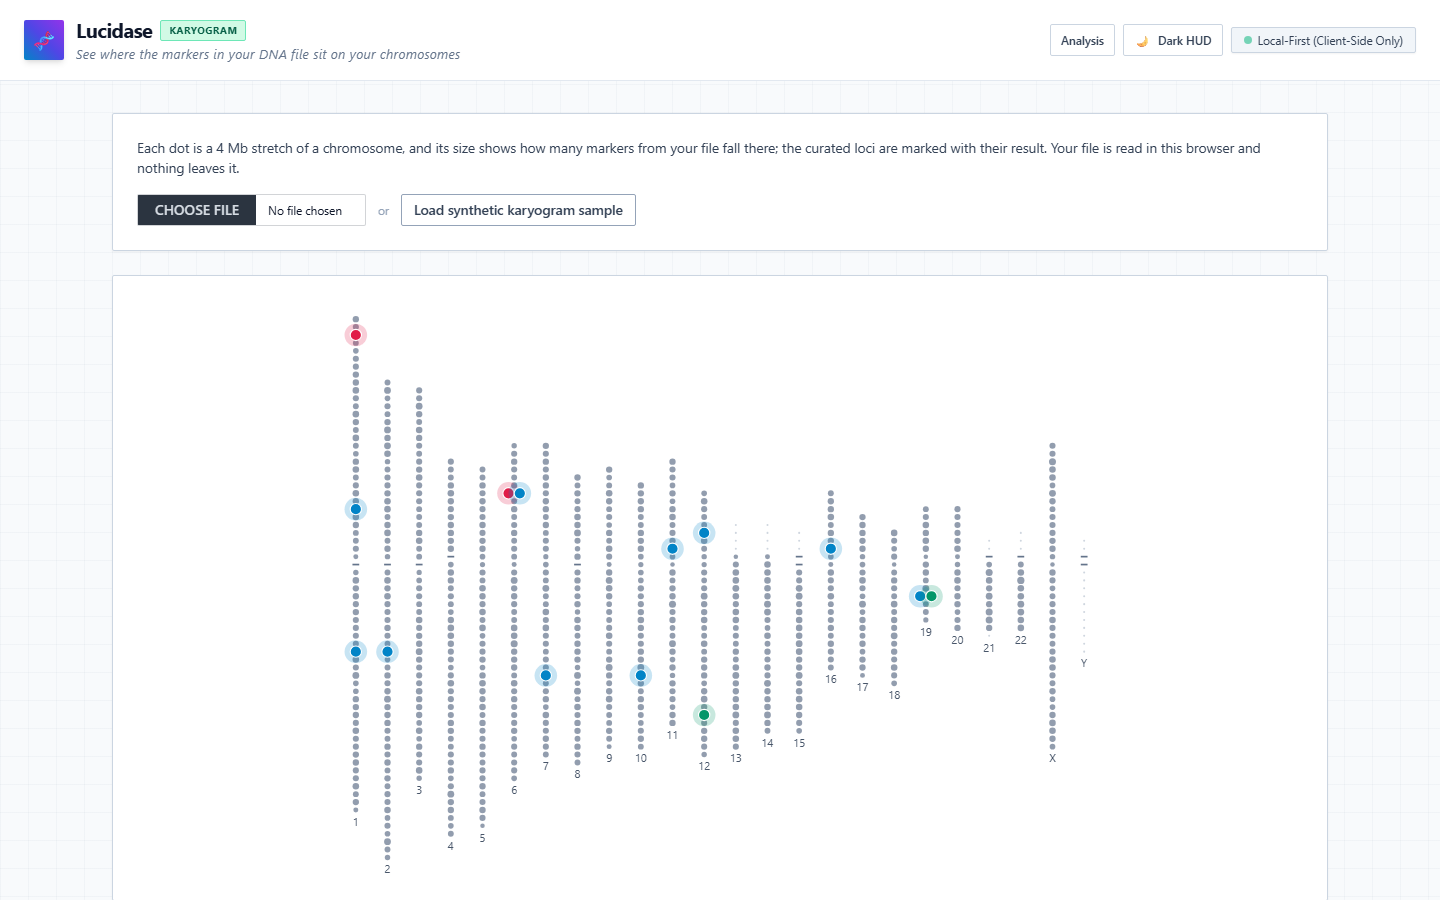
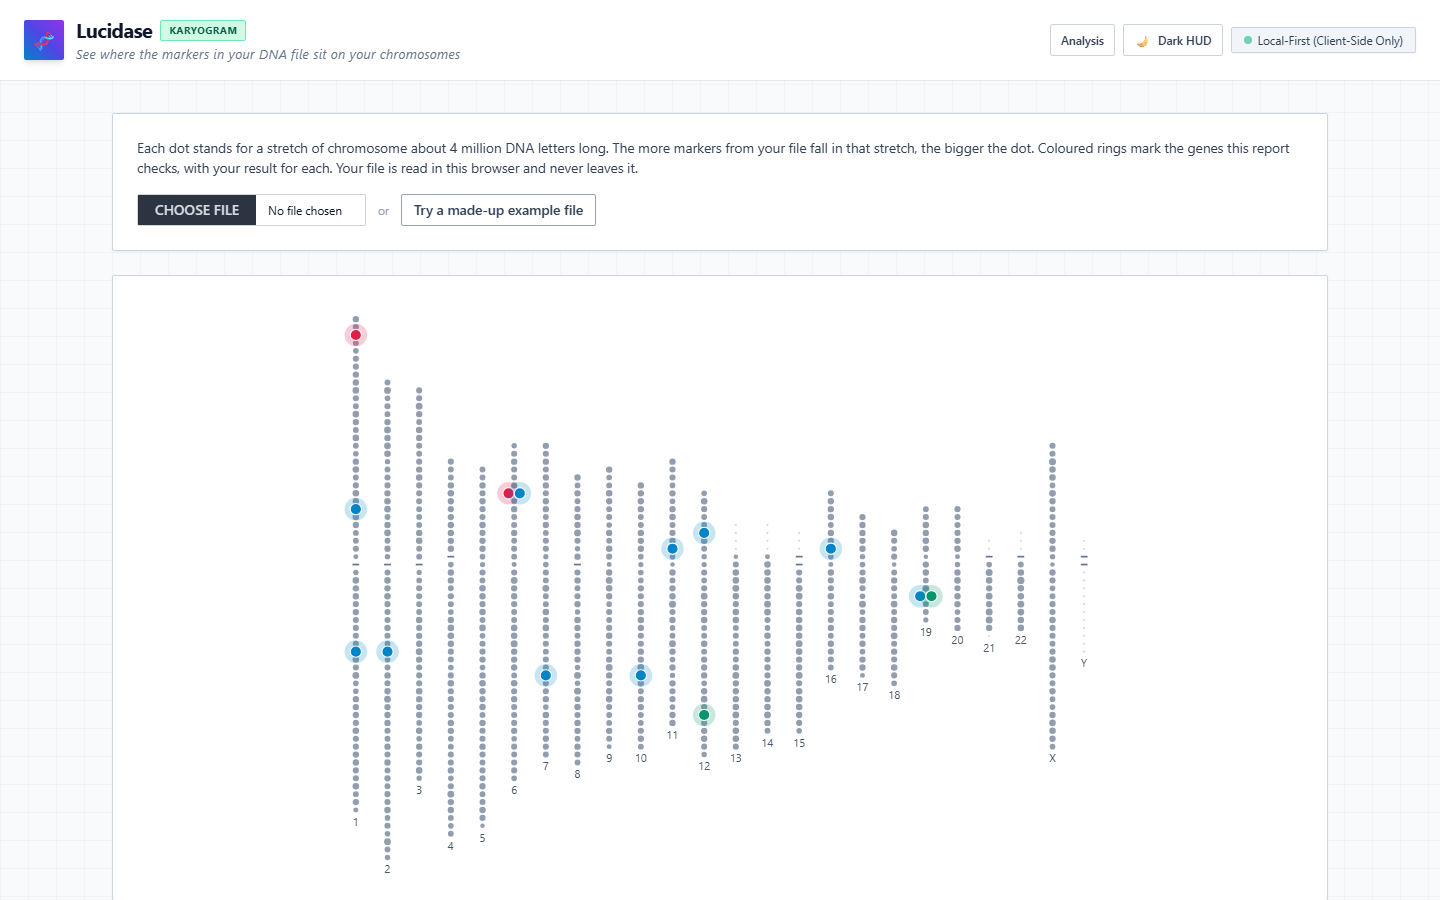
fix(karyogram): plain-language labels for the legend, totals and sample button
The karyogram page mixed plain language with jargon aimed at
geneticists: "curated loci", "4 Mb", "Density", "Rows", "Out of
bounds" and a "synthetic karyogram sample" button. People with a
consumer DNA file could not tell what the dots, the key or the totals
meant.

The intro now says a dot is a stretch of about 4 million DNA letters
and that coloured rings mark the genes this report checks. The sample
button, its loading text and its load error call it an example file.
The key and the loci table are headed "the genes this report checks".
The totals rows read "Lines read from your file", "Mitochondrial DNA
(not drawn)", "On other DNA sequences (not drawn)", "Past the end of
a chromosome (not drawn)" and "Markers drawn on the map" with Yes or
No. The unknown-build notice uses the same gene wording. The README,
the design handoff and the two karyogram screenshots follow.

The e2e karyogram tests now pin the density values, the totals labels,
the button text, and both provenance lines: with no file it reads
"Chromosome shapes: GRCh38." without "matching" or "doesn't say", and
with a known build it reads "matching your file".

Changed region(s): [[0.0938, 0.1556, 0.875, 0.2489]]

diff --git a/web/karyogram.html b/web/karyogram.html
@@ -58,14 +58,15 @@
 
     <section class="glass-panel p-6 bg-white dark:bg-slate-900/60 border border-slate-300 dark:border-slate-700 space-y-4">
       <p class="text-sm text-slate-700 dark:text-slate-300 font-serif">
-        Each dot is a 4 Mb stretch of a chromosome, and its size shows how many markers from your file fall there; the
-        curated loci are marked with their result. Your file is read in this browser and nothing leaves it.
+        Each dot stands for a stretch of chromosome about 4 million DNA letters long. The more markers from your file
+        fall in that stretch, the bigger the dot. Coloured rings mark the genes this report checks, with your result
+        for each. Your file is read in this browser and never leaves it.
       </p>
       <div class="flex flex-wrap items-center gap-3">
         <input type="file" id="karyogram-file-input" class="file-input file-input-sm file-input-bordered rounded-sm text-xs" accept=".txt,.csv,.vcf,.tsv,.gz">
         <span class="text-xs text-slate-400 font-mono">or</span>
         <button type="button" id="btn-load-karyogram-sample" class="btn btn-sm btn-outline border-slate-400 dark:border-slate-700 hover:border-sky-500 text-slate-700 dark:text-slate-300 hover:text-sky-600 dark:hover:text-sky-300 rounded-sm">
-          Load synthetic karyogram sample
+          Try a made-up example file
         </button>
       </div>
     </section>
@@ -98,30 +99,30 @@
 
     <div class="grid grid-cols-1 lg:grid-cols-2 gap-6">
       <section class="glass-panel p-6 bg-white dark:bg-slate-900/60 border border-slate-300 dark:border-slate-700 space-y-3">
-        <h2 class="text-xs font-bold text-slate-500 dark:text-slate-400 uppercase tracking-wider font-mono">Legend: curated loci by result</h2>
+        <h2 class="text-xs font-bold text-slate-500 dark:text-slate-400 uppercase tracking-wider font-mono">Key: the genes this report checks, by your result</h2>
         <ul id="karyogram-legend" class="space-y-1.5 text-xs font-mono"></ul>
       </section>
 
       <section id="karyogram-totals" class="hidden glass-panel p-6 bg-white dark:bg-slate-900/60 border border-slate-300 dark:border-slate-700 space-y-3">
         <h2 class="text-xs font-bold text-slate-500 dark:text-slate-400 uppercase tracking-wider font-mono">Markers in your file</h2>
         <dl class="grid grid-cols-2 gap-x-4 gap-y-1.5 text-xs font-mono">
-          <dt class="text-slate-500 dark:text-slate-400">Rows</dt><dd data-total="rows" class="font-bold text-right"></dd>
+          <dt class="text-slate-500 dark:text-slate-400">Lines read from your file</dt><dd data-total="rows" class="font-bold text-right"></dd>
           <dt class="text-slate-500 dark:text-slate-400">Placed on a chromosome</dt><dd data-total="placed" class="font-bold text-right"></dd>
-          <dt class="text-slate-500 dark:text-slate-400">Mitochondrial (MT)</dt><dd data-total="mt" class="font-bold text-right"></dd>
-          <dt class="text-slate-500 dark:text-slate-400">Unplaced, by name</dt><dd data-total="unplaced" class="font-bold text-right"></dd>
-          <dt class="text-slate-500 dark:text-slate-400">Out of bounds</dt><dd data-total="outOfBounds" class="font-bold text-right"></dd>
+          <dt class="text-slate-500 dark:text-slate-400">Mitochondrial DNA (not drawn)</dt><dd data-total="mt" class="font-bold text-right"></dd>
+          <dt class="text-slate-500 dark:text-slate-400">On other DNA sequences (not drawn)</dt><dd data-total="unplaced" class="font-bold text-right"></dd>
+          <dt class="text-slate-500 dark:text-slate-400">Past the end of a chromosome (not drawn)</dt><dd data-total="outOfBounds" class="font-bold text-right"></dd>
           <dt class="text-slate-500 dark:text-slate-400">Not placed (genome version unknown)</dt><dd data-total="notPlacedBuildUnknown" class="font-bold text-right"></dd>
-          <dt class="text-slate-500 dark:text-slate-400">Density</dt><dd data-total="density" class="font-bold text-right"></dd>
+          <dt class="text-slate-500 dark:text-slate-400">Markers drawn on the map</dt><dd data-total="density" class="font-bold text-right"></dd>
         </dl>
         <p id="karyogram-density-notice" class="hidden p-3 rounded-sm bg-amber-50/90 dark:bg-amber-950/40 border-l-4 border-amber-500 border border-amber-200 dark:border-amber-900/60 text-xs text-slate-800 dark:text-slate-200">
           Your file doesn't say which genome version it uses, so its markers can't be placed on the chromosomes. The
-          highlighted genes still show your results.
+          genes this report checks still show your results.
         </p>
       </section>
     </div>
 
     <section class="glass-panel p-6 bg-white dark:bg-slate-900/60 border border-slate-300 dark:border-slate-700 space-y-3">
-      <h2 class="text-xs font-bold text-slate-500 dark:text-slate-400 uppercase tracking-wider font-mono">Curated loci</h2>
+      <h2 class="text-xs font-bold text-slate-500 dark:text-slate-400 uppercase tracking-wider font-mono">Genes this report checks</h2>
       <div class="overflow-x-auto">
         <table class="table table-sm w-full text-xs">
           <thead>

diff --git a/web/src/karyogram-page.js b/web/src/karyogram-page.js
@@ -87,7 +87,7 @@ function renderTotals(layout) {
     unplaced: unplaced.length === 0 ? "None" : unplaced.map(([name, n]) => `${name}: ${fmt(n)}`).join(", "),
     outOfBounds: fmt(t.outOfBounds),
     notPlacedBuildUnknown: fmt(t.notPlacedBuildUnknown),
-    density: sample.density === "available" ? "Available" : "Unavailable",
+    density: sample.density === "available" ? "Yes" : "No",
   };
   for (const [name, text] of Object.entries(values)) {
     document.querySelector(`#karyogram-totals [data-total="${name}"]`).textContent = text;
@@ -244,9 +244,9 @@ async function loadSample() {
     $("karyogram-error").classList.add("hidden");
     setViewState("loading");
     $("karyogram-progress").classList.remove("hidden");
-    updateProgress(10, "Fetching the synthetic karyogram sample...");
+    updateProgress(10, "Loading the example file...");
     const resp = await fetch(SAMPLE_URL);
-    if (!resp.ok) throw new Error("Could not load the synthetic sample file.");
+    if (!resp.ok) throw new Error("Could not load the example file.");
     processText(await resp.text(), SAMPLE_NAME);
   } catch (err) {
     showError((err && err.message) || err);

diff --git a/tests/e2e/test_karyogram.py b/tests/e2e/test_karyogram.py
@@ -64,6 +64,11 @@ def test_load_shows_reference_only_karyogram(page):
     expect(page.locator("#karyogram-provenance")).to_contain_text("hg38")
     expect(page.locator("#karyogram-provenance")).to_contain_text(KB["manifest"]["release"])
     expect(page.locator("#karyogram-provenance")).to_contain_text("2026-10-03")
+    provenance = page.locator("#karyogram-provenance")
+    expect(provenance).to_contain_text("Chromosome shapes: GRCh38.")
+    expect(provenance).not_to_contain_text("matching")
+    expect(provenance).not_to_contain_text("doesn't say")
+    expect(page.locator("#btn-load-karyogram-sample")).to_have_text("Try a made-up example file")
 
 
 def test_synthetic_sample_matches_the_file_and_the_main_app(page):
@@ -81,10 +86,13 @@ def test_synthetic_sample_matches_the_file_and_the_main_app(page):
     assert _total(page, "mt") == "0"
     assert _total(page, "outOfBounds") == "0"
     assert _total(page, "notPlacedBuildUnknown") == "0"
-    assert _total(page, "density") == "Available"
+    assert _total(page, "density") == "Yes"
     assert page.locator("#karyogram-figure .kary-col").count() == 24
     assert page.locator("#karyogram-figure .kary-bin:not(.kary-bin-empty)").count() > 0
     expect(page.locator("#karyogram-provenance")).to_contain_text("hg19")
+    expect(page.locator("#karyogram-provenance")).to_contain_text("matching your file")
+    expect(page.locator("#karyogram-totals")).to_contain_text("Lines read from your file")
+    expect(page.locator("#karyogram-totals")).to_contain_text("Markers drawn on the map")
     karyogram_states = page.evaluate(LOCUS_STATES)
     assert "reference" not in karyogram_states.values()
 
@@ -121,7 +129,7 @@ def test_unknown_build_shows_the_density_notice_and_keeps_locus_states(page):
     expect(page.locator("#karyogram-density-notice")).to_be_visible()
     expect(page.locator("#karyogram-density-notice")).to_contain_text("doesn't say which genome version")
     expect(page.locator("#karyogram-provenance")).to_contain_text("doesn't say which genome version it was made with")
-    assert _total(page, "density") == "Unavailable"
+    assert _total(page, "density") == "No"
     assert _total(page, "placed") == "0"
     assert _total(page, "notPlacedBuildUnknown") == "5"
     assert page.locator("#karyogram-figure .kary-bin:not(.kary-bin-empty)").count() == 0

diff --git a/docs/design-handoff.md b/docs/design-handoff.md
@@ -369,7 +369,7 @@ Factual audit from code; "to verify" = cannot be proven without rendering.
 1. **Reference-only** (`reference-only`): on load, before any file. 24 chromosome columns of faint dots with the 14 curated loci in the neutral "reference" style; the legend counts all loci as reference; no totals panel.
 2. **Loading** (`loading`): the progress bar and status line, the same pattern as the analysis page. The file input and the demo button are disabled from the moment `processText` starts (karyogram-page.js:218), not during the FileReader read or the sample fetch before it.
 3. **Result** (`result`): density dots sized by marker count (an empty bin r 0.9; a bin with markers r 1.6 to 3.2, so one marker is visibly larger), loci coloured by coverage state (observed sky, tested not detected emerald, array gap amber, insufficient evidence rose, reference neutral slate), the legend with counts, the totals panel (rows, placed, MT, unplaced by name, out of bounds, not placed because the genome version is unknown, density) and the loci table.
-4. **Density unavailable** (a notice inside the result): the file doesn't say which genome version it uses, so no marker is placed on the chromosomes; every dot is faint and the highlighted genes keep their states. The totals row reads "Not placed (genome version unknown)" and the figure's title says the chromosomes are drawn from the GRCh38 reference.
+4. **Density unavailable** (a notice inside the result): the file doesn't say which genome version it uses, so no marker is placed on the chromosomes; every dot is faint and the genes this report checks keep their states. The totals row reads "Not placed (genome version unknown)" and the figure's title says the chromosomes are drawn from the GRCh38 reference.
 5. **Error** (`error`): `#karyogram-error`, the same alert pattern as the analysis error; the figure falls back to the reference-only drawing and the totals panel is hidden.
 
 The marker colours live in `src/styles.css` (`.kary-*`) as references to the existing theme variables. The figure scales with its container (760 px at most).

diff --git a/README.md b/README.md
@@ -13,10 +13,10 @@ Lucidase reads a raw genotype file in your browser and interprets the 14 curated
 
 <picture>
   <source media="(prefers-color-scheme: dark)" srcset="docs/assets/lucidase-karyogram-dark.png">
-  <img src="docs/assets/lucidase-karyogram-light.png" alt="The Lucidase karyogram of the bundled synthetic sample: 24 chromosome columns of marker-density dots with the 14 curated loci marked by result">
+  <img src="docs/assets/lucidase-karyogram-light.png" alt="The Lucidase karyogram of the bundled example file: 24 chromosome columns of marker-density dots with the 14 genes this report checks marked by result">
 </picture>
 
-`web/karyogram.html` maps a genotype file onto the chromosomes. Each dot is a 4 Mb stretch, sized by how many markers from your file fall there, and the 14 curated loci are marked with their coverage state. A file that doesn't say which genome version it uses is not placed on the chromosomes: the page says so and still shows the highlighted genes' results. The map is drawn in the browser from UCSC chromosome lengths and centromeres stored in the knowledge base, and your file never leaves the page.
+`web/karyogram.html` maps a genotype file onto the chromosomes. Each dot stands for a stretch of chromosome about 4 million DNA letters long, sized by how many markers from your file fall there, and the 14 genes this report checks are marked with their coverage state. A file that doesn't say which genome version it uses is not placed on the chromosomes: the page says so and still shows the results for the genes this report checks. The map is drawn in the browser from UCSC chromosome lengths and centromeres stored in the knowledge base, and your file never leaves the page.
 
 ## What it does
 
